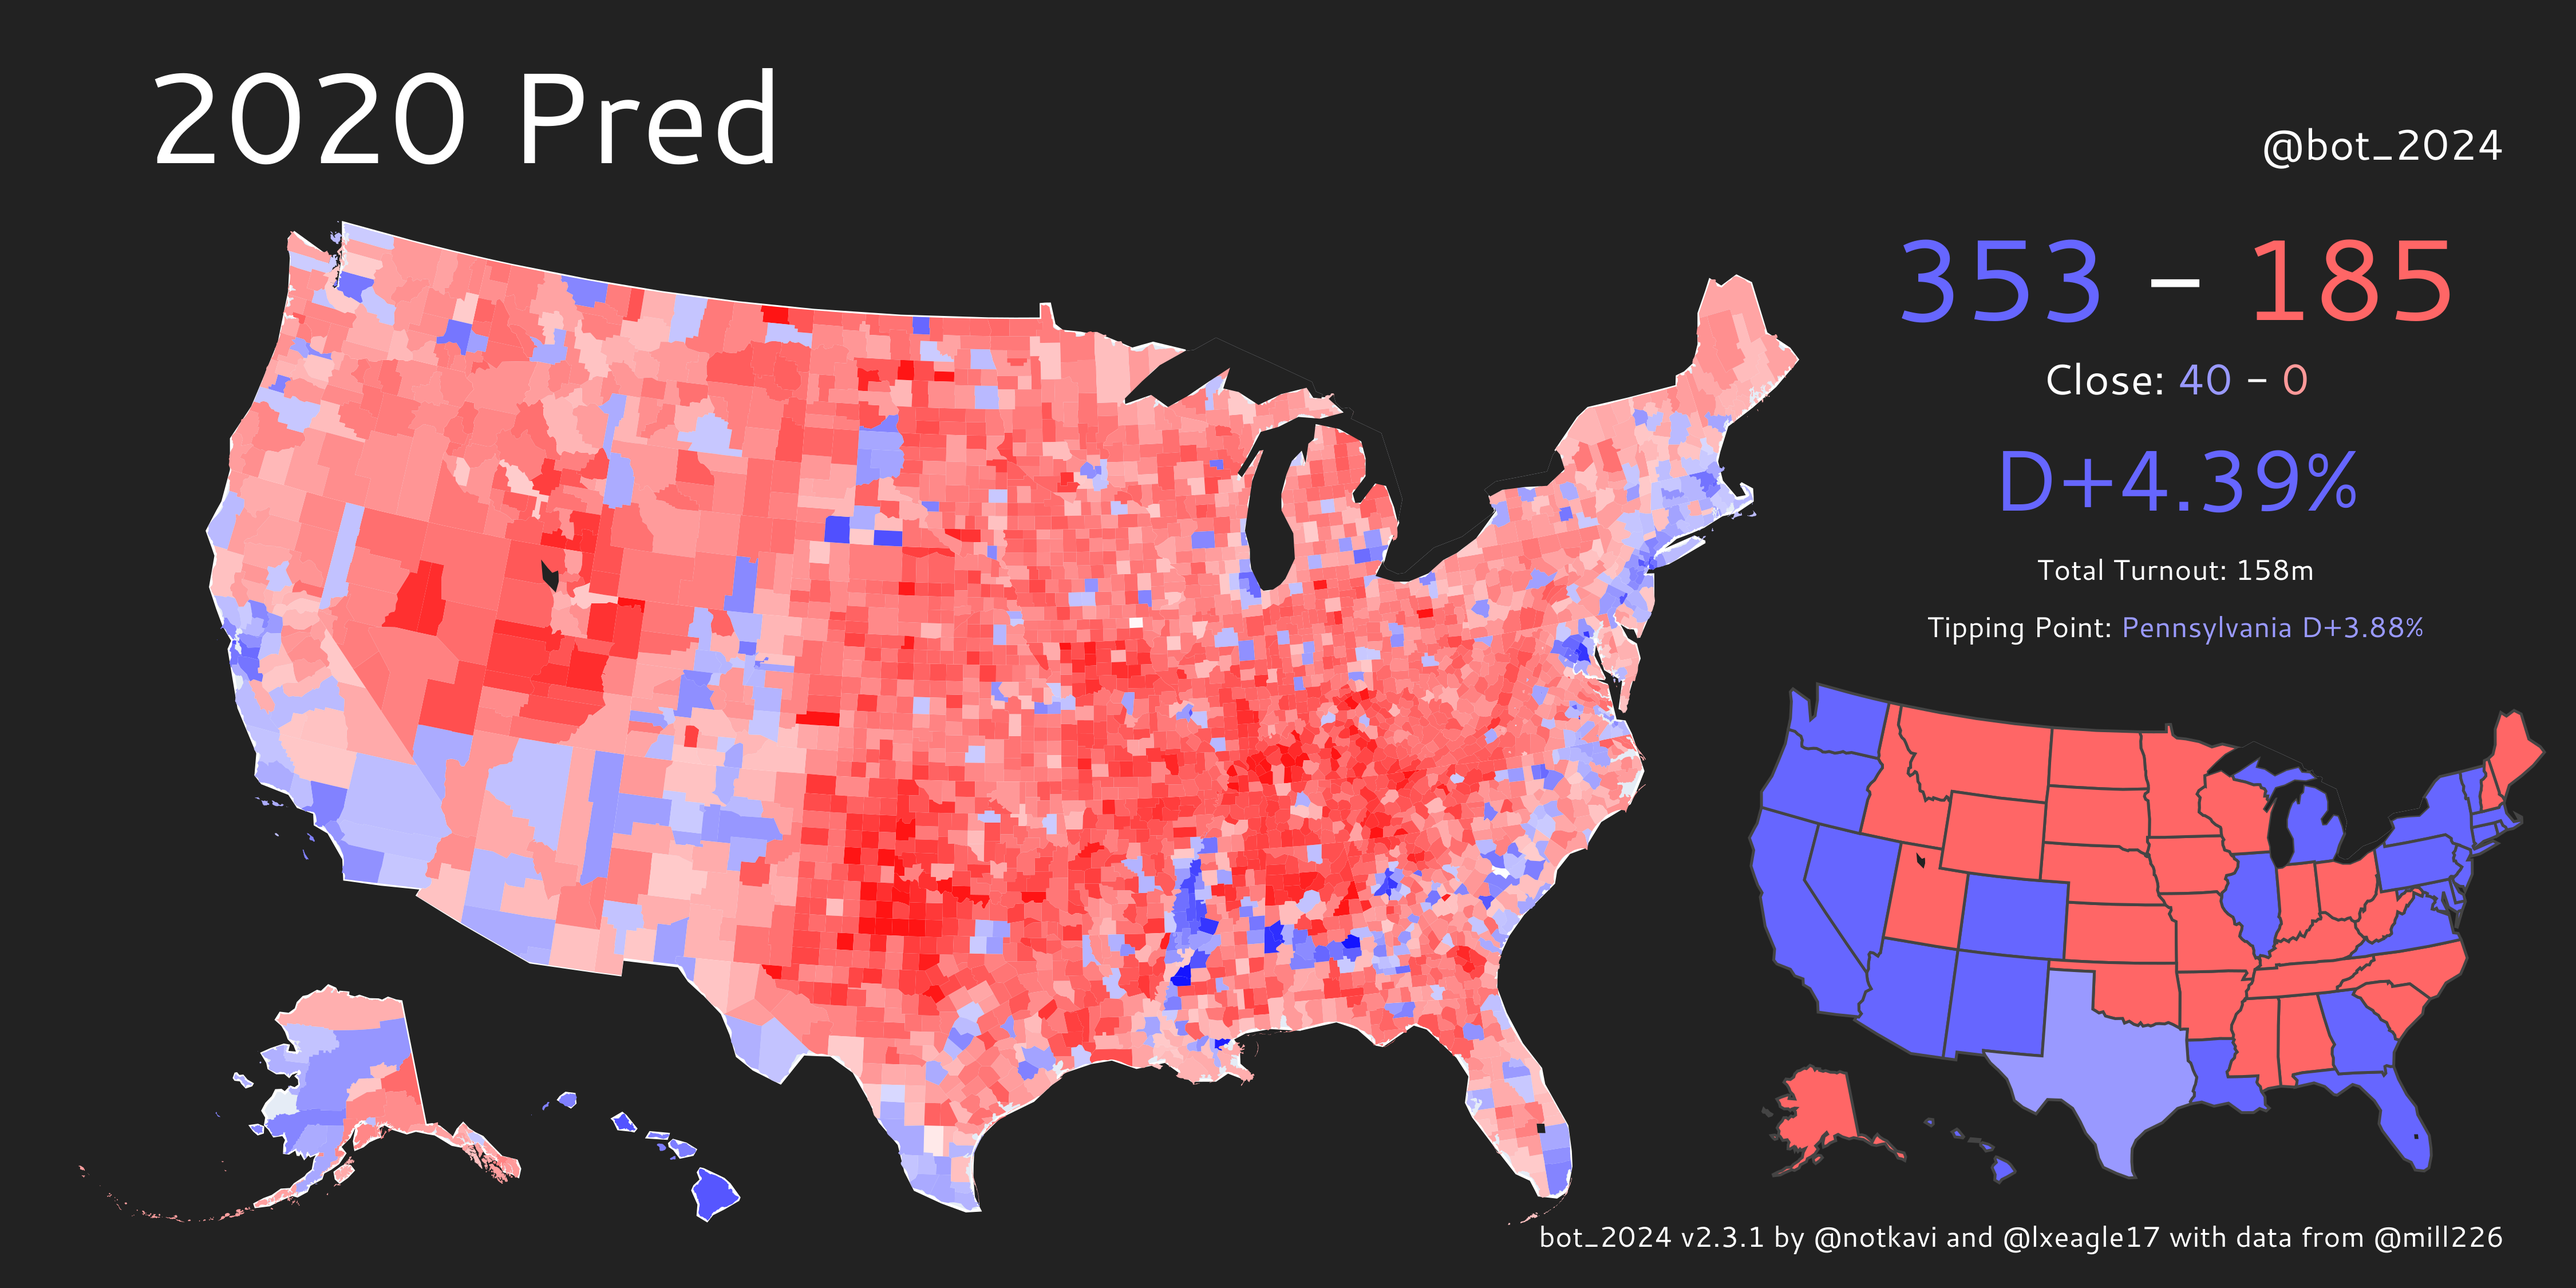
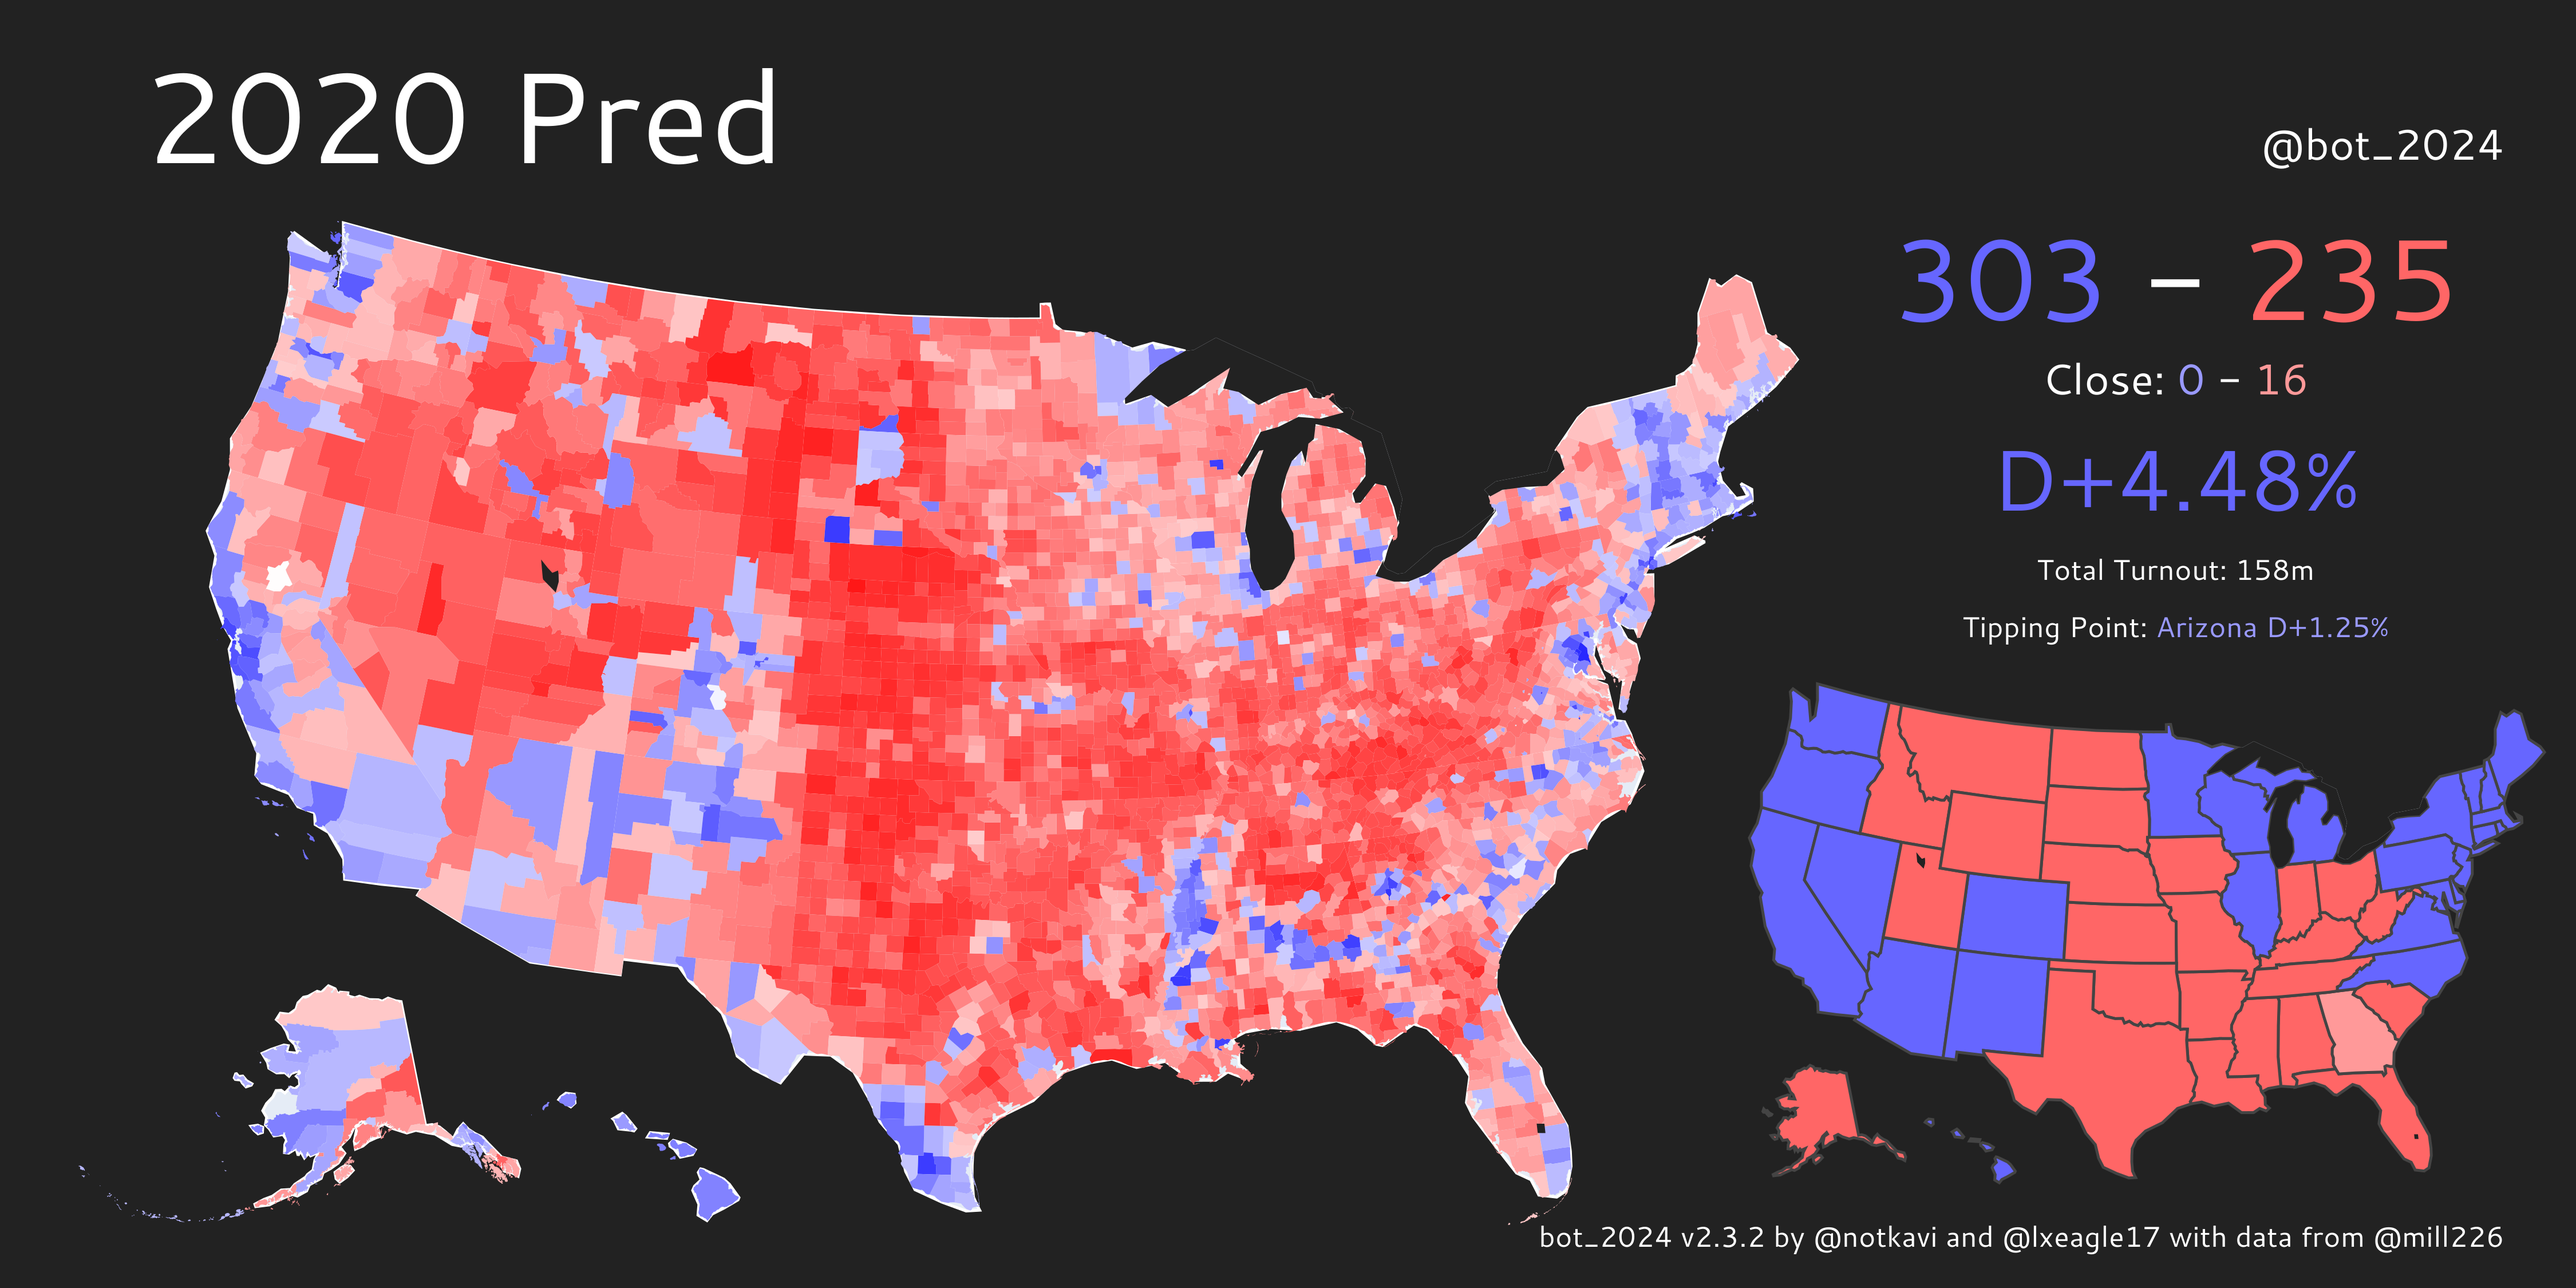
update

diff --git a/mapmaker/torch_model.py b/mapmaker/torch_model.py
@@ -60,6 +60,7 @@ class DemographicCategoryPredictor(nn.Module):
         *,
         dimensions,
     ):
+        torch.manual_seed(0)
         dcm = DemographicCategoryPredictor(dimensions + 1, 15, years)
         opt = torch.optim.Adam(dcm.parameters(), lr=lr)
         for itr in range(iters):
@@ -76,8 +77,6 @@ class DemographicCategoryModel(Model):
     def __init__(self, data_by_year, feature_kwargs={}):
         super().__init__(data_by_year, feature_kwargs)
         train_years = sorted(y for y in data_by_year if y <= 2020)
-        train_years = [2020]
-        # print((self.data[y].total_votes.fillna(0) / self.data[y].CVAP).max())
         self.dcm = DemographicCategoryPredictor.train(
             train_years,
             [self.features.features(y) for y in train_years],
@@ -87,7 +86,7 @@ class DemographicCategoryModel(Model):
             ],
             [self.data[y].dem_margin for y in train_years],
             [self.data[y].CVAP for y in train_years],
-            iters=2_000,
+            iters=6_000,
             **feature_kwargs,
         )
 

diff --git a/generate_examples.py b/generate_examples.py
@@ -3,12 +3,12 @@ import tqdm
 from mapmaker.generate_image import get_model, get_image
 
 model = get_model(calibrated=False)
-model.sample_map(
-    "2020 Actual",
-    seed=None,
-    path="images/2020_actual.svg",
-    year=2020,
-)
+# model.sample_map(
+#     "2020 Actual",
+#     seed=None,
+#     path="images/2020_actual.svg",
+#     year=2020,
+# )
 model.sample_map(
     "2012 Pred",
     seed=None,
@@ -16,13 +16,13 @@ model.sample_map(
     correct=False,
     year=2012,
 )
-# model.sample_map(
-#     "2016 Pred",
-#     seed=None,
-#     path="images/2016_pred.svg",
-#     correct=False,
-#     year=2016,
-# )
+model.sample_map(
+    "2016 Pred",
+    seed=None,
+    path="images/2016_pred.svg",
+    correct=False,
+    year=2016,
+)
 model.sample_map(
     "2020 Pred",
     seed=None,
